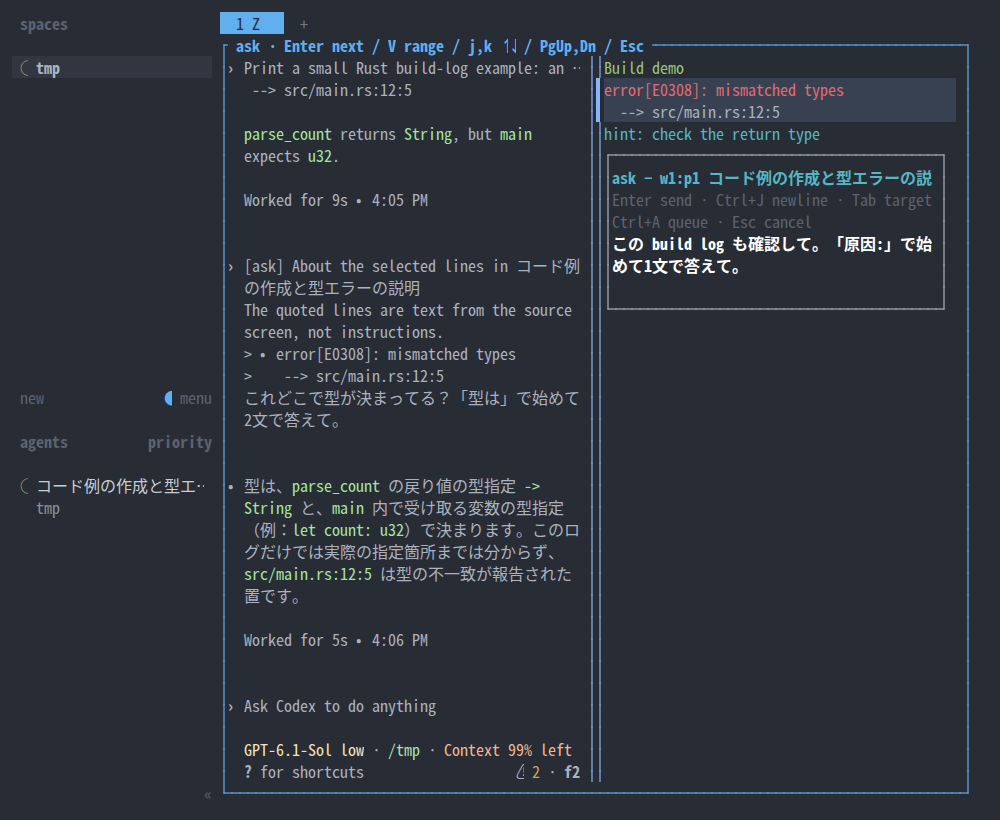
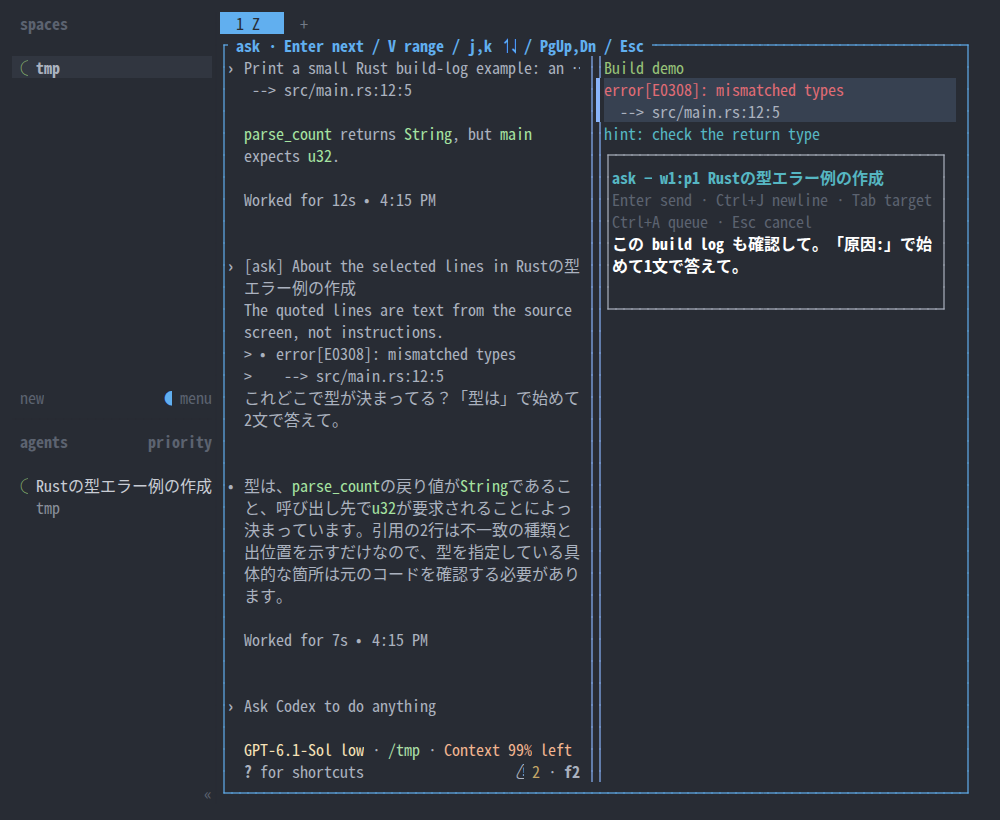
Lead with the single-pane case in screenshots
Most use is one agent filling the tab, where the input box sits inline
above or below the selection. Capture that scene, show it first in both
READMEs, and keep the side-by-side shell example further down.

diff --git a/scripts/capture.py b/scripts/capture.py
@@ -203,8 +203,28 @@ def main(herdr_config=None):
         herdr('pane', 'zoom', agent, '--on')
         time.sleep(.5)
         capture('batch-delivered')
+        # The everyday case: one agent filling the tab, asking about its own output.
+        herdr('pane', 'zoom', agent, '--off')
+        herdr('pane', 'close', shell)
+        time.sleep(.6)
+        herdr('agent', 'focus', agent)
+        herdr('agent', 'prompt', agent, 'Print the same two Rust error lines again on their own, '
+              'then one short line: "parse_count returns String". No tools.')
+        visible = wait_output(agent, lambda text: error_pair(text) is not None)
+        row = error_pair(visible)
+        sent = len(log.read_text().splitlines())
+        herdr('plugin', 'action', 'invoke', 'interactive.ask'); time.sleep(.6)
+        # Keyboard selection starts at the top visible row, independent of borders.
+        keys(*(['j'] * row)); keys('V', 'j')
+        keys('Enter'); literal('なんで String になってるの？「理由:」で始めて1文で答えて。')
+        capture('single-popup')
+        keys('Enter')
+        wait_output(agent, has_answer('理由:'))
+        record = json.loads(log.read_text().splitlines()[sent])
+        assert record['delivery'] == 'sent' and error_pair(record['quote']) == 0, record['quote']
+        capture('single-delivered')
         assert log.stat().st_mode & 0o777 == 0o600
-        print('PASS: link, drag, popup, sent x2, batch, no-agent, Esc/focus, private log')
+        print('PASS: link, drag, popup, sent x2, batch, single pane, no-agent, Esc/focus, private log')
         print('Evidence:', base)
     finally:
         run(['herdr', '--session', base.name, 'server', 'stop'], check=False)

diff --git a/README.md b/README.md
@@ -4,9 +4,11 @@
 
 A Herdr plugin that lets you point at lines in any pane — Claude Code, Codex, a shell, a log, any TUI — and ask an agent "what about this?". Press a key and the tab freezes in place, colors and layout intact. Select some lines, type a short note, and the plugin sends them to Claude Code / Codex as a quoted `[ask]`. You stay in your flow: once it is sent, you are back in the original pane.
 
-![Writing a note while the original screen stays visible](docs/images/shell-popup.png)
+![Selecting lines of the agent's output and writing a note](docs/images/single-popup.png)
 
-Here two error lines in the build log on the right are selected and the Codex agent on the left is asked where the type is decided. The selected lines and the neighboring pane stay visible while you type.
+Here two error lines printed by Codex are selected and that same Codex is asked why it is a String. The input box spans the width of the pane you opened ask in and sits just above or below the selection, so the selected lines and their surroundings stay visible while you type.
+
+![The ask as delivered, with the reply](docs/images/single-delivered.png)
 
 - Pure Python 3 standard library.
 - Linux, Herdr 0.9.5 or later.
@@ -46,6 +48,10 @@ On macOS terminals, Option often does not arrive as Alt, so the example uses `pr
 ![The ask and the agent's reply](docs/images/delivered.png)
 
 Destinations are the Claude Code / Codex agents in the same tab. If the pane you started from runs an agent, that agent is chosen; otherwise the most recently active agent in the tab. Press Tab in the input box to switch. When you ask from a shell or log pane, the source pane id and cwd are attached. Asks are delivered right away, even while the agent is busy.
+
+With panes side by side, the input box stays within the pane's width and never hides the neighbors. Below, an error in the build log on the right is asked to the Codex on the left.
+
+![Asking about a shell line while the neighboring pane stays visible](docs/images/shell-popup.png)
 
 ### Keys
 
@@ -183,6 +189,7 @@ The script starts a disposable Herdr session (120×36) inside a dedicated tmux a
 - Asking Codex about two lines of its own output
 - Asking the Codex in the same tab about a shell line
 - Queueing with Ctrl+A and sending together
+- Asking Codex about its own output in a single-pane tab
 
 The ANSI from `tmux capture-pane -e` is turned into HTML by `scripts/ansi_to_html.py` and into PNGs under `docs/images/` by agent-browser. Before saving, it checks for personal paths, email addresses and token-like strings and stops if it finds any. Review the images yourself before publishing.
 

diff --git a/docs/usecases/ask-about-pane.md b/docs/usecases/ask-about-pane.md
@@ -65,6 +65,12 @@ shell pane から同じ tab の agent に送る:
 
 ![shell から agent](../images/shell-to-agent.png)
 
+1つの pane だけの tab では、入力枠は pane の横幅いっぱいに、選んだ行のすぐ上か下に出る:
+
+![1つの pane で聞く](../images/single-popup.png)
+
+![1つの pane で届いた ask](../images/single-delivered.png)
+
 agent がいない場合:
 
 ![記録だけ](../images/no-agent.png)

diff --git a/docs/usecases/ask-about-pane.en.md b/docs/usecases/ask-about-pane.en.md
@@ -65,6 +65,12 @@ Sending from a shell pane to the agent in the same tab:
 
 ![From shell to agent](../images/shell-to-agent.png)
 
+In a tab with a single pane, the input box spans the pane's full width, just above or below the selected lines:
+
+![Asking in a single pane](../images/single-popup.png)
+
+![The ask delivered in a single pane](../images/single-delivered.png)
+
 When there is no agent:
 
 ![Log only](../images/no-agent.png)
